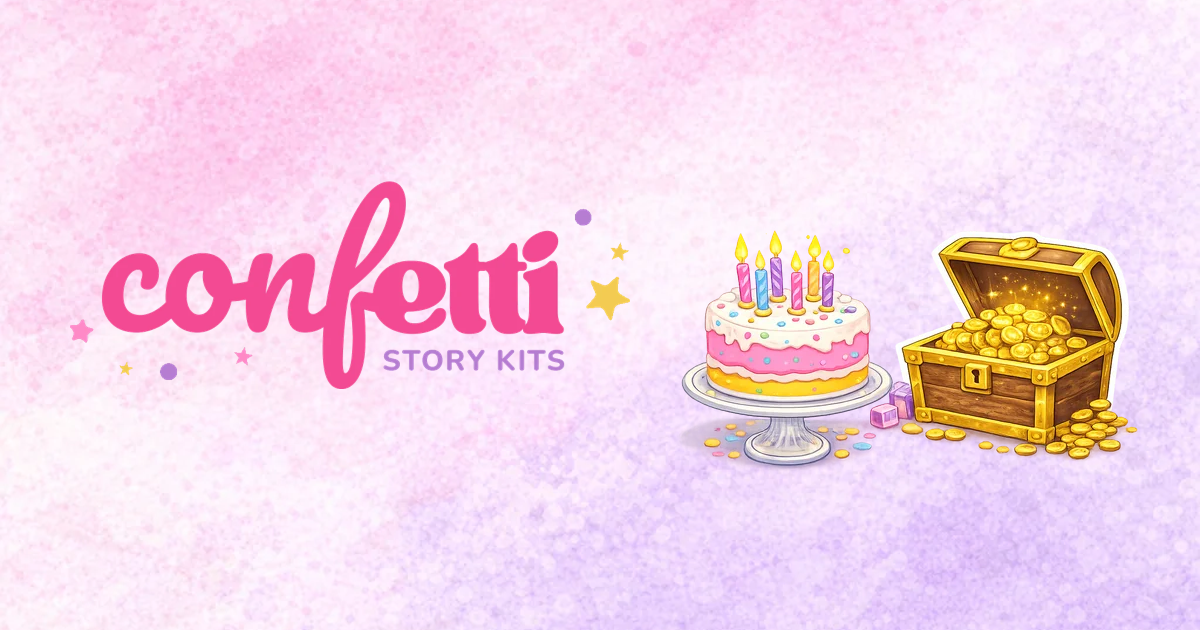
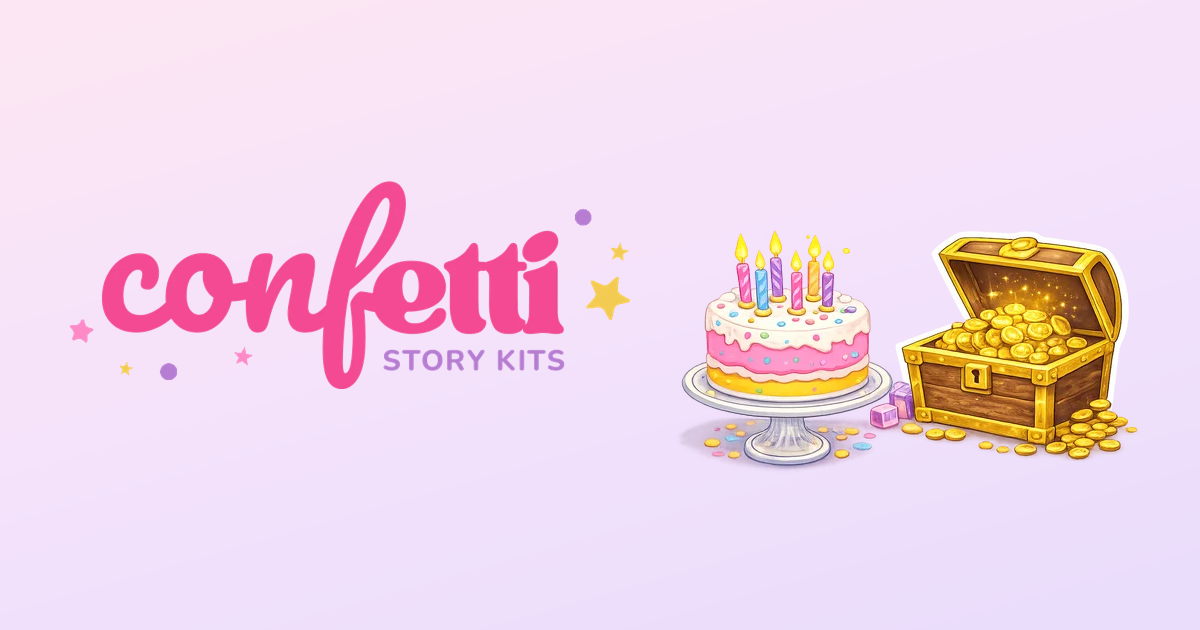
Gradient background; fix hiding spot guide numbering
Claude-Session: https://claude.ai/code/session_015FhWwA1v4xv3Fp1qX86Ebf

diff --git a/assets/js/engine.js b/assets/js/engine.js
@@ -256,7 +256,9 @@
         h("button", { class: "btn small", onclick: () => { const v = jump.value; dlg.close(); go(isNaN(v) ? v : +v); } }, "Go"),
         h("button", { class: "btn secondary small", onclick: () => { dlg.close(); state = { name: state.name, step: "setup" }; go("setup"); } }, "Restart")),
       h("details", {}, h("summary", { style: "cursor:pointer;font-weight:700" }, "Hiding spot guide"),
-        h("ol", { style: "padding-left:20px;line-height:1.6" }, quest.steps.map(s => h("li", {}, s.spot)))),
+        h("ul", { style: "padding-left:20px;line-height:1.6" },
+          h("li", {}, h("b", {}, "Clue #1: "), "keep in your hand to start"),
+          quest.steps.map(s => h("li", {}, h("b", {}, s.final ? "Quest Complete card: " : `Clue #${s.n + 1}: `), s.spot)))),
       h("p", { class: "note" }, h("a", { href: `qr.html?q=${questId}`, target: "_blank" }, "Print QR stickers for the clue cards")),
       h("div", { class: "row", style: "margin-top:10px" }, h("button", { class: "btn secondary small", onclick: () => dlg.close() }, "Close")));
     dlg.addEventListener("close", () => dlg.remove());

diff --git a/assets/css/site.css b/assets/css/site.css
@@ -18,7 +18,8 @@ html, body { margin: 0; }
 body {
   font-family: var(--body);
   color: var(--ink);
-  background: #fbeaf6 url("../img/bg.webp") center / cover fixed;
+  background: linear-gradient(165deg, #fde7f3 0%, #f6e3fb 45%, #e9ddfb 100%) fixed;
+  background-color: #f6e3fb;
   min-height: 100vh;
   -webkit-font-smoothing: antialiased;
 }
@@ -78,7 +79,7 @@ h1, h2, h3 { font-family: var(--display); line-height: 1.1; margin: 0; color: va
 footer { text-align: center; padding: 40px 16px; color: var(--muted); font-size: .9rem; }
 
 /* ---------- Play ---------- */
-body.play { background-attachment: scroll; overflow-x: hidden; }
+body.play { overflow-x: hidden; }
 .app { max-width: 560px; margin: 0 auto; min-height: 100dvh; padding: 14px 16px 28px; display: flex; flex-direction: column; }
 .topbar { display: flex; align-items: center; justify-content: space-between; gap: 10px; min-height: 44px; }
 .topbar .logo-sm { height: 34px; width: auto; }
